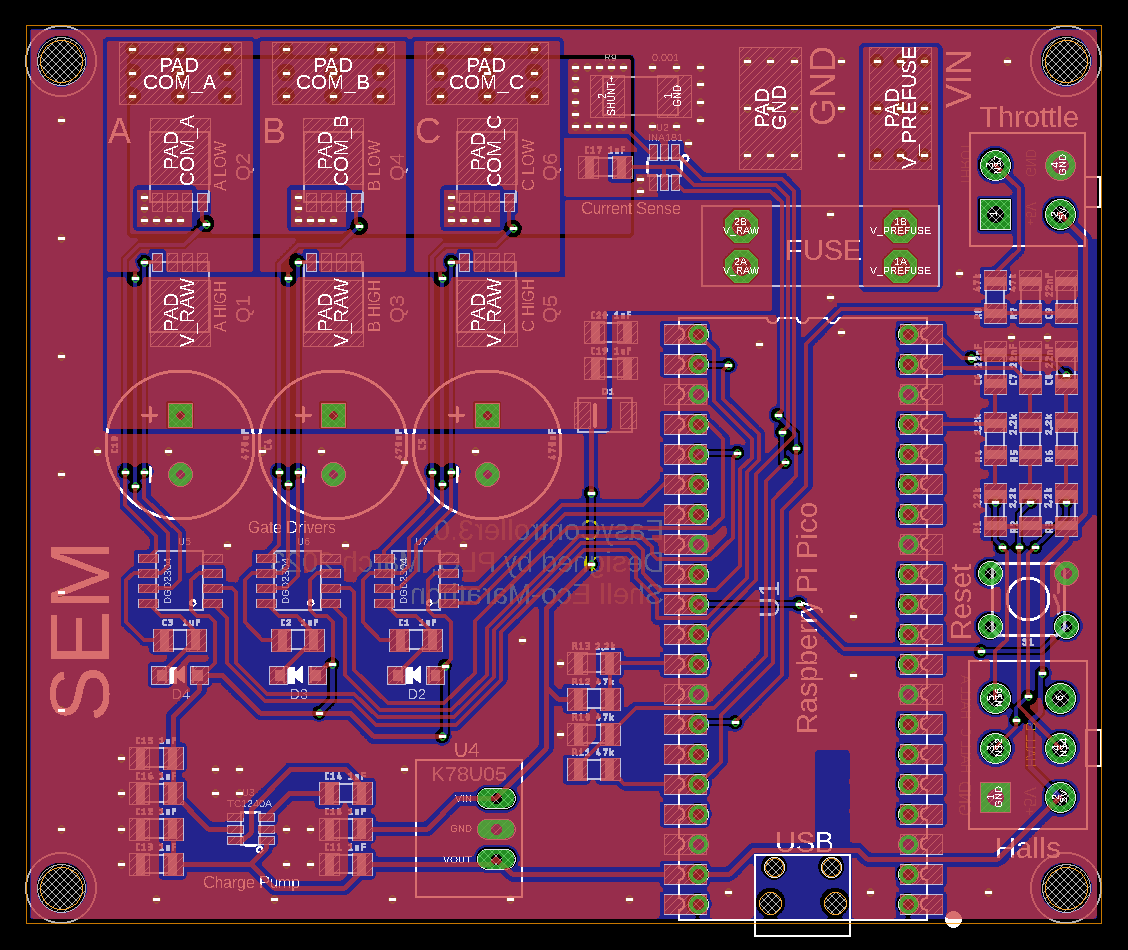
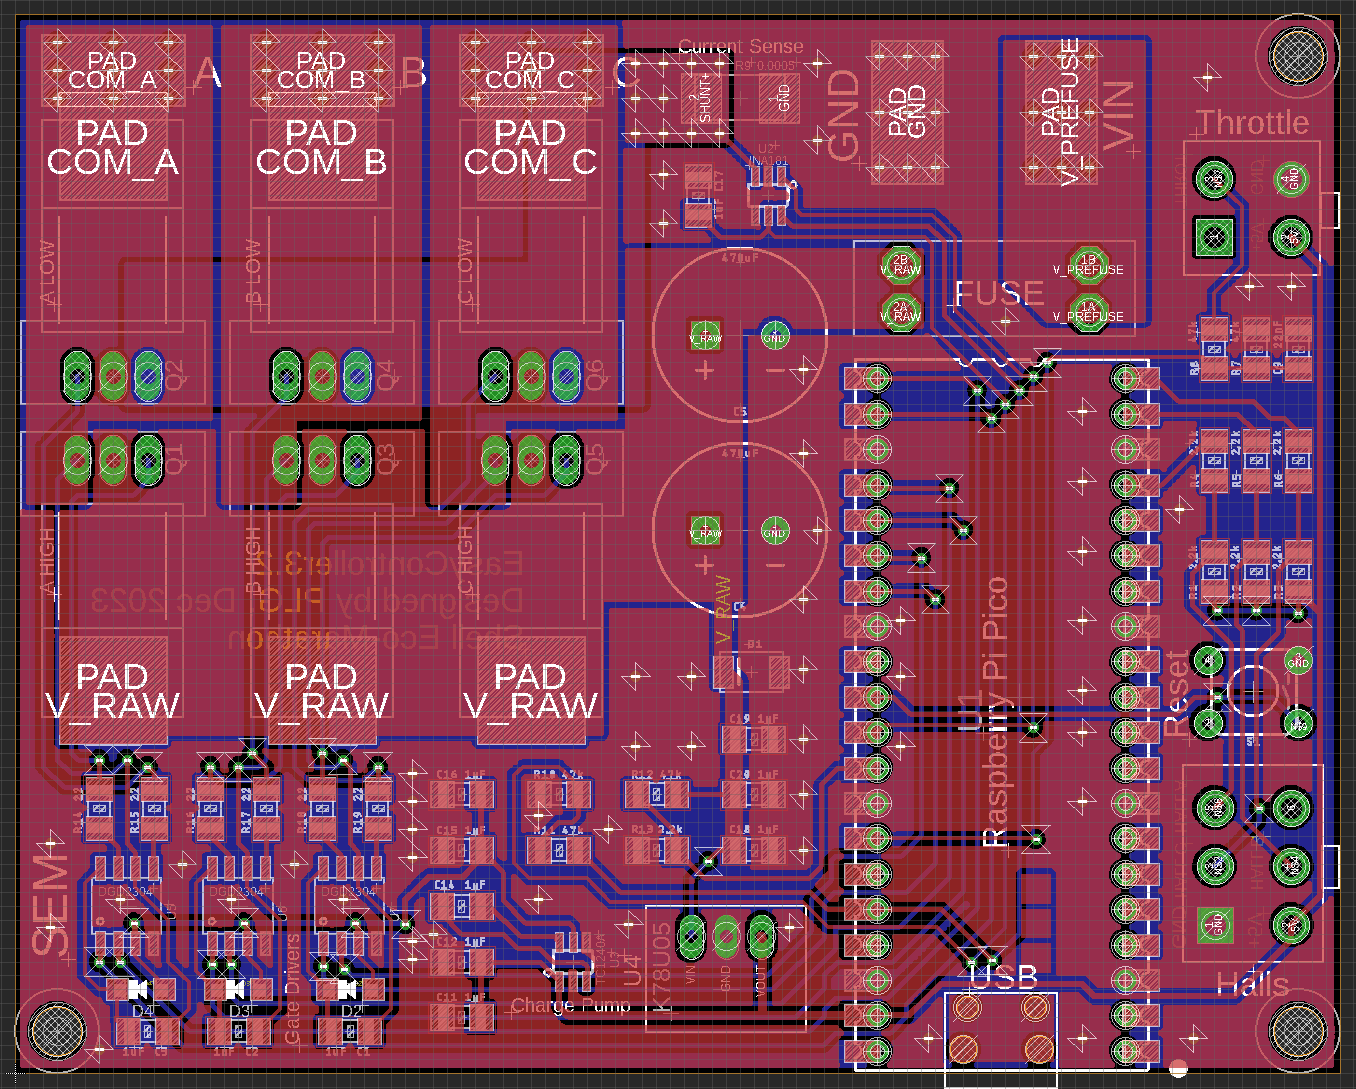
Updated gerbers, docs, and images

diff --git a/README.md b/README.md
@@ -1,6 +1,6 @@
 # EasyController3
 
-*Update May 12, 2023 - During high power testing above 15 amps, it was discovered that the gate drivers are unreliable. A fix has been developed, and version 3.1 will be released soon. We were in a bit of a rush to release and didn't test as thoroughly as we should have. We do NOT RECOMMEND building this version at this time, and please check back for the update.*
+*Update Feb 23, 2024 - The EasyController 3.2 has been released, which has been more thoroughly tested than the 3.0. Further tutorial videos and build guides are coming!*
 
 
 
@@ -10,8 +10,8 @@ The EasyController3 is the next evolution of the successful [EasyController2](ht
 
 ## Improvements over the EasyController2
 
-* Reduced BOM cost from $70 to $36
-* Uses more efficient synchronous PWM. 5-10% greater efficiency under partial throttle operation
+* Reduced BOM cost from $70 to $43
+* Uses more efficient synchronous PWM. Greater efficiency under partial throttle operation
 * Improved from duty-cycle control to torque-control, improving controllability and reducing current spikes
 * Added regenerative braking
 * Lowered quiescent power from 960 mW to 280 mW in a typical installation
@@ -34,12 +34,12 @@ The EasyController family was built to to fill a gap in publicly released motor 
 * Large surface mount components designed to be hand-soldered by hobbyists
 * Socket for automotive fuse
 * Automatic hall sensor identification
-* Simple, well-documented code. <300 lines with comments
+* Simple, well-documented code. <400 lines with comments
 * Torque or duty-cycle control
 * Raspberry Pi Pico microcontroller, compatible with Windows/Mac/Linux
 * DGD2304 gate drivers
-* SIR5802 MOSFETS
-* BOM cost of $36 USD
+* IRFB7730 MOSFETS
+* BOM cost of $43 USD
 * Open source under MIT License
 
 ## Schematic
